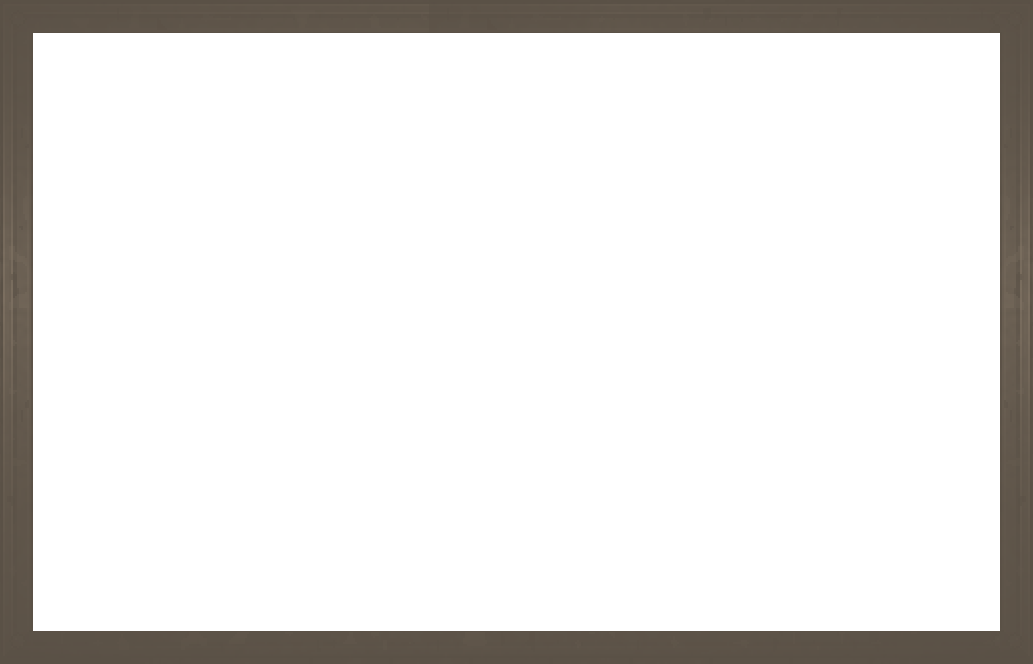
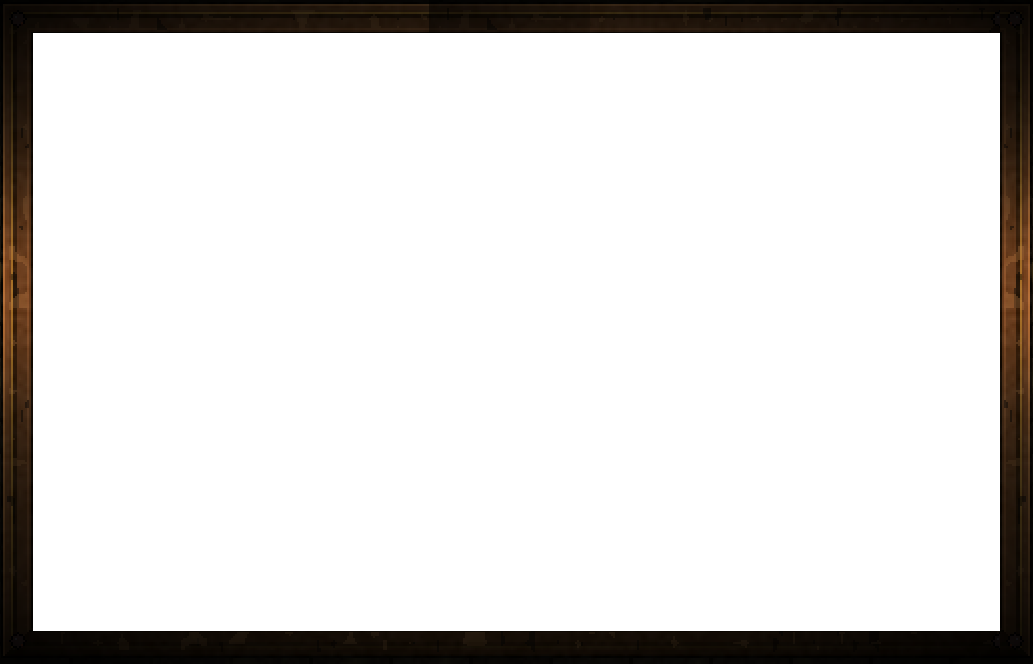
feat(board-lighting): dungeon-dark re-grade — restrained torch lighting (T150, T160–T162)
Phase B tuned the surround shader for warmth (T150), but it over-corrected:
the firelight washed out the dark Collegium mood and drowned the frame/backing/
wall material colour under a board-wide orange bloom. Re-graded per the user's
call (TD-048) to a dark gothic board where the MATERIAL is the star and the fire
is only alive, not a floodlight.

Phase B-2 — Lighting Restraint (R142–R146, P79–P81, T160–T162, V11–V13):

- T160 (R143): restore the frame's baked colour. gen_normals.py re-authors
  frame_v1.png from the preserved painted source as carved warm wood (own hue
  kept, baked hotspots softened, value darkened for the dungeon key) instead of
  neutralising it — reversing the Phase-A "neutral frame, light supplies colour"
  premise. frame_v1_n.png (relief) unchanged.
- T161 (R142/R144): shader restraint. Warm ambient tint -> faint cool dungeon
  fill; gain 1.7->0.7, torch_rig radius 0.74->0.24 (tight cup halo), backing
  diffuse_gain 2.6->1.1, light energy 1.35->0.9, per-surface ambient lowered
  (wall darkest). One rig still feeds every consumer (P72).
- T162 (R145): fire restraint. Drop the board-wide additive gutter wash; shrink
  + dim the cup glow to a small halo. Flame stays alive; reduced motion still
  freezes it + pins the dim light (P73).

Verified via the DebugCapture pipeline: lit reads deep dungeon-dark with the
carved-wood colour whispering and parchments popping; --lights-off shows a
[…]

Changed region(s): [[0.0, 0.0, 1.0, 1.0]]

diff --git a/client/assets/ui/gen_normals.py b/client/assets/ui/gen_normals.py
@@ -1,19 +1,22 @@
 #!/usr/bin/env python3
-"""gen_normals.py — normal maps + neutral frame diffuse for board dynamic lighting.
+"""gen_normals.py — normal maps + restored-colour frame diffuse for board dynamic lighting.
 
-Board Dynamic Lighting v1 (DECISION_LOG TD-047, spec specs/board-lighting/, T148/R129).
-Makes the wooden surround react to the torch Light2Ds: each surface gets a companion
-tangent-space **normal map**, and `frame_v1.png` is re-authored **NEUTRAL** so the torch
-LIGHT — not the diffuse — supplies its colour/direction. Stdlib only (pngio read +
-ashember write), so the user can regenerate; new PNGs are imported with
+Board Dynamic Lighting (DECISION_LOG TD-047 → re-graded TD-048, spec specs/board-lighting/,
+T148/R129 → T160/R143). Each surround surface gets a companion tangent-space **normal map**.
+The frame diffuse is **re-authored from the preserved painted source** to read as carved warm
+wood in its OWN colour (baked, legible even unlit) — the dungeon-dark re-grade (TD-048) reverses
+the earlier TD-047 neutralisation, where the frame was flattened so the torchlight supplied its
+colour; that washed out the mood, so colour is baked back in and the light is now only a whisper.
+Stdlib only (pngio read + ashember write), so the user can regenerate; new PNGs are imported with
 `godot --headless --path <UNC> --import`.
 
 Idempotent: the painted frame source is preserved as `_frame_v1_src.png` and every run
-derives from it (never from the already-neutralised `frame_v1.png`).
+derives from it (never from the already-processed `frame_v1.png`).
 
 Emits:
   _frame_v1_src.png   (first run only — a copy of the original painted frame, kept as source)
-  frame_v1.png        (RE-AUTHORED neutral warm-grey wood; relief now comes from the normal+light)
+  frame_v1.png        (RE-AUTHORED carved warm wood: source hue kept, baked hotspots softened,
+                       value darkened modestly for the dungeon key; TD-048/T160/R143)
   frame_v1_n.png      (strong carved-relief normal, derived from the painted source's luminance)
   backing_v1_n.png    (gentle plank normal; diffuse unchanged)
   wall_v1_n.png       (gentle brick normal; diffuse unchanged)
@@ -28,8 +31,6 @@ import pngio
 import ashember as A
 
 FLIP_G = False   # set True if the relief lights inverted in the V1 capture
-
-BASE_WOOD = (118, 106, 92)   # warm-neutral grey wood the neutral frame is toned to
 
 
 def _load_luma(path):
@@ -66,23 +67,30 @@ def _normal_pixel(w, h, lum, strength):
     return pixel
 
 
-def _neutral_frame_pixel(px):
-    """A pixel that flattens the painted frame to neutral warm-grey wood.
+DARKEN = 0.82              # modest value pull-down for the dungeon key (keeps hue)
+HIGHLIGHT_COMPRESS = 0.65  # soften baked hotspots so nothing reads as a fake light
 
-    Kills the baked colour/hotspot (compressed value, desaturated) so the torch light
-    supplies hue + direction; the carved FORM survives via the companion normal map.
-    Transparent interior stays transparent.
+
+def _restore_frame_pixel(px):
+    """A pixel that RESTORES the painted frame's own carved-wood colour (TD-048/R143).
+
+    Per-channel scaling keeps the wood's hue; baked highlights above mid are compressed
+    (so a painted hotspot never reads as a light the scene doesn't have), then the whole
+    frame is darkened modestly for the dungeon key. The carved FORM is still carried by the
+    companion normal map for the tight per-sconce halo. Transparent interior stays transparent.
     """
     def pixel(x, y):
         r, g, b, a = px(x, y)
         if a == 0:
             return (0, 0, 0, 0)
         L = (0.299 * r + 0.587 * g + 0.114 * b) / 255.0
-        c = 0.5 + (L - 0.5) * 0.5          # compress value contrast (kill hotspots)
-        tone = 0.55 + c * 0.85             # mid brightness band
-        return (A.clamp(BASE_WOOD[0] * tone),
-                A.clamp(BASE_WOOD[1] * tone),
-                A.clamp(BASE_WOOD[2] * tone), a)
+        # Soften only the highlights (L>0.5), leave shadows; per-channel scale preserves hue.
+        scale = 1.0
+        if L > 0.5:
+            f = 0.5 + (L - 0.5) * HIGHLIGHT_COMPRESS
+            scale = f / L
+        scale *= DARKEN
+        return (A.clamp(r * scale), A.clamp(g * scale), A.clamp(b * scale), a)
     return pixel
 
 
@@ -94,8 +102,8 @@ def main():
     fw, fh, flum, fpx = _load_luma("_frame_v1_src.png")
     A.write_png("frame_v1_n.png", fw, fh, _normal_pixel(fw, fh, flum, 8.0))
     print("wrote frame_v1_n.png (%dx%d)" % (fw, fh))
-    A.write_png("frame_v1.png", fw, fh, _neutral_frame_pixel(fpx))
-    print("re-authored frame_v1.png NEUTRAL")
+    A.write_png("frame_v1.png", fw, fh, _restore_frame_pixel(fpx))
+    print("re-authored frame_v1.png carved warm wood (TD-048/T160)")
 
     # Backing + wall: diffuse UNCHANGED, gentle luminance-bump normals only.
     for name, strength in (("backing_v1", 4.0), ("wall_v1", 4.0)):

diff --git a/specs/board-lighting/requirements.md b/specs/board-lighting/requirements.md
@@ -134,6 +134,71 @@ lit**.
   plaque (Godot still draws the gilt title text over it); tonally matched. **No normal map, no
   torch lighting** (same reach ruling as the crest, P77).
 
+## Phase B-2 — Lighting Restraint (dungeon-dark re-grade) — TD-048
+
+> Added 2026-07-13 (user). Phase B's warmth/reach tuning (T150) over-corrected: the firelight
+> grew so bright it **washed out the dark ambient Collegium/dungeon mood** and drowned the
+> material colour of the frame edges, backing, and wall — the sconce light was *stealing the
+> show*. The user re-graded the board (three locked answers, 2026-07-13):
+> **(1) mood = deep dungeon-dark** — the surround sits mostly near-black; the flames are the
+> only warm source, casting **near-zero** onto surfaces (a tight cup halo at most), and the
+> wood/stone colour only *whispers* out of the dark;
+> **(2) colour source = restore the material's own colour** — **`frame_v1.png` is re-authored
+> BACK to carved warm wood** (baked colour, legible even unlit), **reversing the Phase-A
+> neutralisation** (TD-047's "neutral frame, light supplies colour" premise is retired for the
+> frame); backing + wall read in their own colour at a low key;
+> **(3) fire reach = flame visible, near-zero cast** — the flame flickers and looks alive, but
+> lights surfaces almost not at all; the board stays near-fully dark.
+> Still client render-only (I1/I2); trust boundary untouched (R135 stands). This **supersedes
+> the Phase-B (T150) grade** — the warm ambient tint, `smoothstep`+extended reach, and broad
+> additive wash are pulled back; the Phase-A normal-map/shader machinery is **kept but scoped**
+> to a tight, dim halo. Numbering continues global: **R142+**, correctness **P79+**, tasks **T160+**.
+
+**R142** (client): the board surround reads **deep dungeon-dark at rest**, even with the flames lit.
+- AC: with both flames present, the frame, backing, and wall read **predominantly dark** — the
+  mean brightness of the surround (excluding the parchments, which are unlit baked paper, and the
+  flame sprites themselves) sits at a **low key**; only a **tight region around each sconce cup**
+  is visibly lifted. No board-wide warm gradient, no orange wash climbing the board (the Phase-B
+  reach is pulled back in).
+- AC: the dark, moody Collegium ambience is the dominant read; the light is an **accent**, not the
+  subject. (Heritage: canon "lit, not evenly bright" — here weighted hard toward *dark*.)
+
+**R143** (client): the frame, backing, and wall show their **own material colour**, baked, visible
+even with the light off — **reversing the Phase-A frame neutralisation** (TD-048).
+- AC: **`frame_v1.png` is re-authored back to carved warm wood** (its own hue baked into the
+  diffuse), from the preserved original source (`_frame_v1_src.png`, kept at T148) rather than the
+  neutralised grey; the frame reads as coloured carved wood at rest, not as a grey that only gains
+  colour when lit. `frame_v1_n.png` (the carved relief normal) is **kept**.
+- AC: `backing_v1.png` and `wall_v1.png` read in their **own** aged-wood / stone colour at the dim
+  key (the shader `diffuse_gain` no longer over-lifts the backing into a wash); with `--lights-off`
+  the whole board still reads as a **coloured dark wooden board** (the material carries the colour),
+  not flat neutral grey. (This intentionally changes V1's old "flat neutral wood" expectation — see
+  Verification V11.)
+
+**R144** (client): the shader firelight is **scoped to a tight, dim halo** at each sconce; the
+Phase-B over-correction is reverted.
+- AC: the warm **`ambient_tint`** is retired (or set to a **low, cool** dungeon fill, not warm), the
+  lit-term **`gain`** and the torch **`radius`** are pulled well in, and the `light_col` energy is
+  lowered — so the firelight lifts only the immediate cup surround and casts **near-zero** across the
+  board. The Phase-A rig (one `torch_rig`, P72) and the normal-mapped relief are **kept**, just scoped.
+- AC: a low **ambient** floor remains so the baked material colour still *whispers* in the dark (the
+  board is dark, never pure black); the ambient is cool/neutral (dungeon), never a second warm source.
+
+**R145** (client): the fire's **additive glow/wash sprites** are restrained so the fire never
+overpowers the material or steals the show.
+- AC: the broad **gutter wash** sprite (today `torch_glow` at ~3.4×3.9, the board-wide bloom) is
+  **shrunk hard or dropped**, and the cup **glow** sprite is reduced to a small, dim halo at the
+  flame — near-zero throw onto the frame/backing/wall; the flame sprite/particles stay **alive**
+  (flicker unchanged in spirit), but their *cast* is minimal.
+- AC: reduced motion (F9/`--reduced-motion`) still freezes the flame + pins the (now dim) light to
+  its peak — the accessibility lever is preserved at the new low intensity (P73 unchanged).
+
+**R146** (client): the re-grade regresses **none** of the standing invariants.
+- AC: one rig still feeds every consumer (P72); render-only (P71); capture-verifiable + headless-clean
+  (P74); reduced motion holds (P73); no server/shared/wire/game-state change (R135). Board behaviour
+  (select/deselect/deploy, notice legibility) is untouched — the parchments, being unlit baked paper,
+  keep their contrast floor regardless of how dark the surround goes.
+
 ## Cross-cutting
 
 **R141** (client): the whole board art is **one consistent hand-painted raster set** on **one
@@ -180,3 +245,17 @@ No GDScript unit harness (client-spec convention). Each requirement is verified 
 - **V10 (R139/R140/R141/P77/P78):** capture shows the restyled crest + placard tonally matched to
   the board (consistent raster), sitting in the top's ambient dim (not dynamically lit); no prop
   is in a foreign style.
+- **V11 (R142/R143/P79/P80):** the lit capture reads **deep dungeon-dark** — the surround's mean
+  brightness (sampled off the frame/backing/wall, excluding parchments + flames) sits at a low key,
+  with only a tight lifted region at each sconce (measured against the Phase-B capture: the board is
+  visibly darker and the orange wash is gone). **`--lights-off` now shows a coloured dark wooden
+  board** (the frame reads carved warm wood, backing/wall in their own hue), **not** flat neutral
+  grey — the material carries the colour (this deliberately supersedes V1's old "flat neutral wood"
+  expectation: R129's proof shifts to the small *local* lit-vs-off delta at each sconce, not a global one).
+- **V12 (R144/R145/P81):** the flame reads **alive** (flicker; two captures ~0.3s apart differ) yet
+  its **cast is near-zero** — the lit region above the dim floor occupies only a small fraction of
+  the board area around each sconce; no board-wide gradient or orange bloom. `--reduced-motion` still
+  freezes the flame + pins the dim light (P73).
+- **V13 (R146/P71/P72/P74):** one rig still feeds sprites + shader (a single `torch_rig` edit moves
+  both); `--headless` parses clean (no SCRIPT/shader error); `git diff --name-only` shows client
+  paths only; server + shared suites remain green (untouched).

diff --git a/specs/board-lighting/tasks.md b/specs/board-lighting/tasks.md
@@ -31,13 +31,19 @@
 
 ## Phase B — Hybrid light shader
 
-- [ ] T150 [R130 / P71, P72] — **Ember-rim `light()` shader.** New
-      `client/assets/ui/board_surface.gdshader` (`canvas_item`, `light()` override: rim +
-      warm-to-ember, scaled by `LIGHT_ENERGY`/attenuation, native `LIGHT_*` — no manual uniform).
-      Assign a `ShaderMaterial` to the frame NinePatch (+ backing/wall if it reads well). Guard:
-      drop the material on shader error (graceful degrade).
-      Verify: **V2** — capture shows a warm ember rim on the frame's flame-facing edges cooling
-      with distance; run log has no shader-compile error.
+- [x] T150 [R130 / P71, P72] — **Ember-rim + warm-ambient tuning (uniform-based, per the T149
+      pivot).** The spec's `light()`-override wording is pre-pivot: Light2D never reaches these
+      Control nodes, so there is no native `LIGHT_*` to hook — the ember rim + warmth live in
+      `board_surface.gdshader`'s **uniforms/fragment**, driven by the one torch rig (P72). Done:
+      the rim term (`ember * pow(ndl,3) * rim_strength * atten`) already glows the flame-facing
+      edges and cools with `atten`; Phase B **fixed the "pale-grey where the light doesn't reach"
+      symptom** — added a warm `ambient_tint` so unlit wood reads as dim warm wood not cold silver,
+      and swapped the hard linear-clamp falloff for a `smoothstep` shoulder + a taller torch reach
+      (`radius` 0.62→0.74) so the warm pool climbs the board smoothly instead of cutting to grey
+      mid-frame. **V2 green** — lit capture shows the warm ember gradient/rim on the flame-facing
+      frame edges cooling with distance and the whole surround reading as warm torchlit wood; the
+      `--lights-off` capture collapses to flat uniform dim wood (relief/warmth gone → the shader,
+      not the diffuse, does the work — V1 still holds); no shader-compile error in either run.
 
 - [ ] T151 [R130] — **(Stretch) heat-haze** quad above each flame (time-scrolled UV wobble),
       amount→0 under reduced motion. **Deferrable**: skip if it costs legibility or capture
@@ -90,13 +96,51 @@
       no shader. Headless-import.
       Verify: part of **V10** — placard matches the register, ambient dim.
 
+## Phase B-2 — Lighting Restraint (dungeon-dark re-grade, TD-048)
+
+> Supersedes the T150 grade. A re-tune + one asset re-author; no new shader machinery. Order:
+> T160 (restore frame colour) → T161 (shader restraint) → T162 (fire-sprite restraint), each
+> capture-verified, then folded into the T154 verification pass.
+
+- [x] T160 [R143 / P80] — **Restore the frame's baked colour.** In `gen_normals.py`, re-author
+      `frame_v1.png` **from the preserved `_frame_v1_src.png`** (carved warm wood, its own hue baked
+      in; optionally value-darkened for the dungeon key) instead of neutralising it; keep
+      `frame_v1_n.png`. Headless-import.
+      **Done** — `_neutral_frame_pixel` replaced by `_restore_frame_pixel` (per-channel scale keeps the
+      wood hue; highlights >mid compressed ×0.65 so no baked hotspot reads as a fake light; ×0.82 darken
+      for the dungeon key); `frame_v1_n.png` unchanged (regen from same source is deterministic).
+      `python3 gen_normals.py` clean; headless-reimported; `--lights-off` capture shows the frame as
+      coloured carved warm wood (own hue present), not neutral grey (part of V11).
+
+- [x] T161 [R142, R144 / P79, P81] — **Shader restraint (dungeon-dark).** Retire/neutralise the
+      Phase-B warm `ambient_tint` (cool/low dungeon fill); pull `gain` down, the `torch_rig` radius
+      in (from 0.74 → tight cup halo), the `light_col` energy down; drop the backing `diffuse_gain`
+      toward ~1.0 so the planks read their own deep colour. Keep the low `ambient` floor so material
+      whispers; one rig still feeds every surface (P72).
+      **Done** — shader defaults: `ambient_tint` → faint-cool `(0.82,0.85,0.95)`, `gain` 1.7→0.7,
+      `rim_strength` 0.7→0.35, `ambient` 0.42→0.40; `torch_rig` radius 0.74→0.24; `light_col.a`
+      (energy) 1.35→0.9; per-surface ambient/diffuse_gain — frame `(0.40,1.0)`, backing `(0.42,1.1)`
+      (was 2.6 wash), wall `(0.30,1.0)`. **V11 green** — lit capture reads deep dungeon-dark: surround
+      near-black with the carved-wood colour whispering, only a tight per-sconce lift, orange wash gone;
+      the lit-vs-`--lights-off` delta is now small + local (superseding V1's global delta, by design).
+
+- [x] T162 [R145, R146 / P81, P73] — **Fire-sprite restraint.** In `board_decor.gd add_torches`,
+      shrink-hard-or-drop the broad gutter `wash` sprite and reduce the cup `glow` to a small dim halo
+      (near-zero board throw); flame stays alive; `--reduced-motion` still freezes flame + pins the dim
+      light.
+      **Done** — the board-wide gutter `wash` sprite (`torch_glow` @3.4×3.9) is **dropped**; the cup
+      `glow` shrunk 1.35×1.5→0.7×0.78 and dimmed α0.52→0.28 (flicker 0.34↔0.22). **V12 green** — the
+      flame stays alive with near-zero cast (a tight dim halo, no board bloom); `--reduced-motion`
+      capture is steady with the glow pinned to peak (P73). No shader/SCRIPT error; headless parse clean.
+
 ## Cross-cutting
 
-- [ ] T154 [R129–R141 / P71–P78] — **Verification pass.** Run `specs/board-lighting/playtest.md`
-      (**V1–V10**) on a worst-case seed via the DebugCapture pipeline, incl. `--reduced-motion`; fix any
+- [ ] T154 [R129–R146 / P71–P81] — **Verification pass.** Run `specs/board-lighting/playtest.md`
+      (**V1–V13**) on a worst-case seed via the DebugCapture pipeline, incl. `--reduced-motion`; fix any
       GDScript/shader errors; confirm **no server/shared file changed** and the server + shared
-      Vitest suites are still green (untouched); `--headless` parses clean.
-      Verify: V1–V10 green; `git diff --name-only` shows only client paths; MCP/headless clean.
+      Vitest suites are still green (untouched); `--headless` parses clean. (V11 supersedes V1's global
+      lights-off delta with the small local one; re-baseline captures.)
+      Verify: V1–V13 green; `git diff --name-only` shows only client paths; MCP/headless clean.
 
 ## Notes
 

diff --git a/specs/board-lighting/design.md b/specs/board-lighting/design.md
@@ -196,7 +196,69 @@ One raster register across every board surface; one light rig for every LIT prop
 + banner); crest + placard the two documented un-lit exceptions. Decor stays low-contrast so gilt still
 leads the eye to headline/target/seal.
 
+## Phase B-2 — Lighting Restraint (dungeon-dark re-grade, R142–R146 / TD-048)
+
+> Satisfies R142–R146. A **re-grade**, not new machinery: it re-tunes the Phase-A/B shader
+> uniforms + the Phase-C-era additive sprites toward *dark*, and **restores the frame's baked
+> colour** (reversing the Phase-A neutralisation). One rig still (P72); render-only (P71).
+
+### Restore material colour (R143) — `gen_normals.py`
+
+Phase A saved the original warm frame as **`_frame_v1_src.png`** before neutralising (T148 note).
+The re-grade **stops neutralising**: `gen_normals.py` re-authors `frame_v1.png` **from that
+preserved source** — the carved warm-wood diffuse, optionally **value-darkened** a touch for the
+dungeon key, but keeping its own hue baked in. `frame_v1_n.png` (the carved relief normal) is
+**unchanged**. `backing_v1.png`/`wall_v1.png` diffuse art is unchanged; they simply stop being
+over-lifted by the shader (below), so their own colour reads at the low key. Re-import headless.
+
+### Shader restraint (R144) — `board_surface.gdshader` uniforms
+
+No shader-code rewrite; the fragment math stays. The re-grade is in the **uniform values** set by
+`main.gd _surface_material` (per surface) and the rig:
+- **Retire the warm `ambient_tint`** added in Phase B (or set it **cool/neutral** — a dim dungeon
+  fill, never a second warm source). Keep a **low `ambient`** floor so the now-coloured diffuse
+  *whispers* in the dark (board is dark, not pure black).
+- **Pull `gain` well down** (the lit term) and **`radius` well in** (the `torch_rig` radius, the
+  one source of truth — Phase B pushed it to 0.74; the re-grade brings it to a tight cup halo).
+  Lower the `light_col` energy (the alpha packed in `_surface_material`). Net: the fire lifts only
+  the immediate sconce surround; **near-zero cast** across the board (R142/R144).
+- **Drop `diffuse_gain` on the backing** back toward ~1.0 (Phase A pre-lifted it to 2.6, which now
+  reads as a wash) so the backing shows its own deep aged-wood colour at the dim key. (Consistent
+  with the still-pending **R137** "darker backing"; this re-grade sets the key that R137 authors to.)
+- The `smoothstep` shoulder (Phase B) may stay — with a small radius it just softens the tiny halo.
+
+`--lights-off` now zeroes `light_count` and the board shows the **coloured dark wooden board**
+(material carries the colour) — the lit-vs-off delta becomes **small + local** at each sconce
+(V11), by design, superseding V1's global "flat neutral wood" delta.
+
+### Fire sprite restraint (R145) — `board_decor.gd add_torches`
+
+The additive bloom, not the shader, was most of the "steals the show" wash:
+- **Shrink hard or drop the broad gutter `wash`** sprite (today `torch_glow` @ ~3.4×3.9, α≈0.17) —
+  it is the board-wide orange pool; the re-grade removes it or reduces it to a faint, small remnant.
+- **Reduce the cup `glow`** sprite (today @ ~1.35×1.5, α≈0.52) to a **small, dim** halo hugging the
+  flame — near-zero throw onto the frame/backing/wall.
+- The **flame** itself (sprite now, CPUParticles2D at Phase C) stays **alive** — flicker unchanged
+  in spirit; only its *cast* shrinks. **Reduced motion** still freezes it + pins the (dim) light (P73).
+
+### Files touched (all client, re-grade)
+
+Edited: `gen_normals.py` (frame re-coloured from `_frame_v1_src.png`, not neutralised) → re-authored
+`frame_v1.png`; `board_surface.gdshader` **uniform defaults** (cool/neutral ambient, lower rim) and/or
+`main.gd _surface_material` args (`ambient`, `gain`, `diffuse_gain`, energy); `board_decor.gd`
+`torch_rig` radius + `add_torches` wash/glow scale·alpha. **No server/shared files** (R135).
+
 ## Correctness Properties
+
+- **P79 (dungeon-dark at rest, R142):** with the flames lit, the surround's measured mean brightness
+  (off frame/backing/wall, excluding parchments + flame sprites) is at a **low key**; only a tight
+  per-sconce region exceeds it — no board-wide warm gradient. The dark mood is the dominant read.
+- **P80 (material colour is baked, R143):** the frame (and backing/wall) show their **own hue with
+  the light off** (`frame_v1.png` re-authored from `_frame_v1_src.png`, not the neutral grey) — the
+  colour no longer depends on the light reaching the surface; reverses the Phase-A neutral premise.
+- **P81 (fire doesn't steal the show, R144/R145):** the flame's lit halo + additive glow occupy only
+  a **small fraction** of the board area above the dim floor; the broad wash is gone; the fire is
+  alive but its cast is near-zero — the material, not the firelight, carries the board.
 
 - **P71 (render-only, R135):** every change is a client node/asset/shader; no `src/server` or
   `src/shared` edit, no wire message, no game-state read/write (I1/I2).

diff --git a/docs/DECISION_LOG.md b/docs/DECISION_LOG.md
@@ -1338,3 +1338,37 @@ the shader `light_count`. **V1 green:** lit rakes warm relief across frame/backi
 verification) remain **open/deferred** — several T145 items already folded into the TD-046 pass
 (keep-out, pinned paper, legibility). This log switches the *active* spec to board-lighting; the
 notice-board spec is paused, not abandoned.
+
+## TD-048 — Board lighting re-graded to dungeon-dark; Phase-A frame neutralisation reversed (2026-07-13)
+
+**Context.** Phase B's warmth/reach tuning (T150: warm `ambient_tint`, `smoothstep`+extended torch
+`radius` 0.62→0.74, plus the standing broad additive gutter wash) **over-corrected**. On review the
+user judged the firelight so bright it **washed out the dark ambient Collegium/dungeon mood** and
+drowned the **material colour** of the frame edges, backing, and wall — the sconce fire was *stealing
+the show*. The board should read as a dark gothic surface where the **material** is the subject and
+the fire is merely **alive**, not a floodlight.
+
+**Decisions (user-authorised, 2026-07-13; three locked answers).**
+- **Mood = deep dungeon-dark.** The surround sits mostly near-black; the flames are the only warm
+  source and cast **near-zero** onto surfaces (a tight cup halo at most); wood/stone colour only
+  *whispers* out of the dark. Canon "lit, not evenly bright" (TD-043) is weighted hard toward *dark*.
+- **Colour source = restore the material's own colour.** **`frame_v1.png` is re-authored BACK to
+  carved warm wood** (baked hue, legible even unlit), from the preserved original `_frame_v1_src.png`
+  (kept at T148). This **reverses the Phase-A / TD-047 premise** that the frame be *neutralised* so
+  "the torchlight supplies its colour" — that premise is **retired for the frame** (its normal map
+  `frame_v1_n.png` is kept). Backing + wall read in their own colour at a low key (the shader
+  `diffuse_gain` over-lift is dropped).
+- **Fire reach = flame visible, near-zero cast.** The flame flickers/looks alive but lights surfaces
+  almost not at all: shader `gain`/`radius`/energy pulled well in, warm `ambient_tint` retired (or set
+  to a low **cool** dungeon fill), and the broad additive **gutter wash** sprite shrunk-hard-or-dropped
+  with the cup glow reduced to a small dim halo.
+
+**Scope & containment.** Still `specs/board-lighting/`, **client render-only** (I1/I2 hold — no
+server/shared/wire/game-state change, R135 stands). New **Phase B-2 — Lighting Restraint**: R142–R146,
+P79–P81, T160–T162, verification V11–V13. The Phase-A normal-map/uniform-shader machinery and the one
+`torch_rig` (P72) are **kept but scoped** to a tight, dim halo. **Supersession:** the T150 grade is
+superseded (its warmth/reach walked back); **V11 supersedes V1's old "`--lights-off` ⇒ flat neutral
+wood" expectation** — with baked colour restored, lights-off now shows a *coloured dark wooden board*
+and R129's "light does the work" proof shifts to the small **local** lit-vs-off delta at each sconce,
+not a global one. The parchment notices are unlit baked paper, so their T145 contrast floor is
+unaffected by however dark the surround goes.

diff --git a/CLAUDE.md b/CLAUDE.md
@@ -68,8 +68,13 @@ torches, plus an ember rim, and a **CPUParticles2D** flame with flicker (redrawn
 lighting, TD-047). Client render-only (I1/I2). **Phase A done (T148–T149): V1 green** — but the
 technique **pivoted**: Godot `Light2D` does **not** reach Control-node UI, so lighting is a
 `canvas_item` **fragment shader** (`board_surface.gdshader`) sampling the normal map from
-**uniform** torch lights (one `BoardDecor.torch_rig` feeds sprites + shader). **Next: Phase B**
-(T150 ember-rim tuning), then C (particle fire) / D (props). R129–R141, T148–T159.
+**uniform** torch lights (one `BoardDecor.torch_rig` feeds sprites + shader). **Phase B (T150) done,
+then RE-GRADED (TD-048):** T150's warmth over-corrected — washed out the dungeon mood + drowned the
+material colour, so **Phase B-2 — Lighting Restraint** (R142–R146, P79–P81, T160–T162, V11–V13)
+re-grades to **deep dungeon-dark**: **restore `frame_v1`'s baked carved-wood colour** (reversing the
+Phase-A neutralisation), pull the shader/fire cast in to a tight dim per-sconce halo (near-zero board
+cast), fire alive but not stealing the show. **Next: implement T160–T162** (spec'd, not yet built),
+then C (particle fire) / D (props). R129–R146, T148–T162.
 
 @specs/board-lighting/requirements.md
 @specs/board-lighting/design.md
